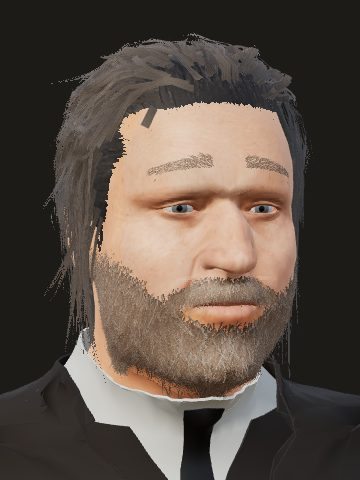
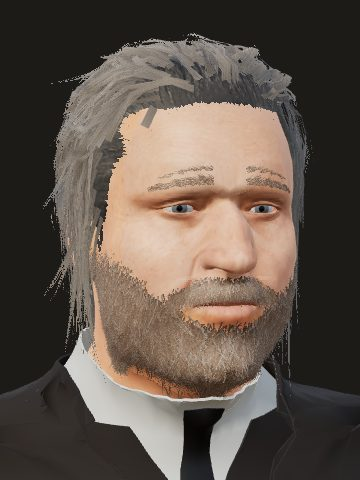
T-3553: The Greys' hair, eyes and William's brows matched to the colour sheets (#1985)
* T-3553: William and Sarah Grey drawn from the owner's stand-in portraits

No photograph of either Grey is known; the owner supplied two sepia
portraits as their 1904 likenesses. Their faces are fitted to about 400
face-landmark points each (MediaPipe), tied to the body's face vertices by
rendering each rest face at five turns (tools/face_landmark_correspondence.py,
data/humans/variation/mediapipe_hm08_landmarks.json). Both are drawn at the
portraits' apparent ages (about 50 and 45; owner's choice), their records
keep the census ages. Build, hair (William's long swept-back hair and full
beard; Sarah's knot turned up to the crown from the lady's own bun), brows
and cloth colours follow the pictures. Cards label each picture "STAND-IN,
NOT" the person; the sources are tier 5, cross_check, and every reading is
graded reconstructed (docs/LIBERTIES.md).

Claude-Session: https://claude.ai/code/session_01YWBQdZGjWaE4FT9A1KPnpp

* T-3553: William's lips and chin clear of his beard, its line up the cheek; Sarah's high cheekbones, fine features, thin lips

Owner, 2026-11-13: his moustache and beard covered his lips and left no
space round his chin, and his beard line did not follow the portrait's;
her cheekbones are higher and her features finer than drawn.

- human-hair.js: a facial piece's region may carry a top line (top:
  [[x, y], ...] cm) its roots stay below, feathered at it.
- The moustache roots between nose and lip and falls to the mouth's
[…]

diff --git a/chicago/4d/renderers/web/js/human-hair-styles.js b/chicago/4d/renderers/web/js/human-hair-styles.js
@@ -234,8 +234,9 @@ export const FACIAL_HAIR = Object.freeze({
   // T-3553: the brows as the Greys' stand-in portraits set them, measured against the eyes on
   // the portrait and on a render of the fitted face by the same landmark model: Sarah's fine
   // brows sit 1.25 cm lower over the eyes than brows_fine draws them on the lady's body, and
-  // William's full brows 0.7 cm lower than brows_full, on the brow bone close over the eyes as his
-  // turnaround sheet shows them (re-measured 2026-11-13 on the faces refitted to the side views).
+  // William's full brows 1.45 cm lower than brows_full, on the brow bone close over the eyes as his
+  // turnaround sheet shows them (re-measured 2026-11-13 on the faces refitted to the side views, and
+  // lowered again when drawn beside the sheet, where they floated a finger's width above the lids).
   brows_fine_low_1904: Object.freeze({
     region_cm: Object.freeze({ x: [1.3, 4.6], y: [.27, .67], z_min: -1.5, droop: .55 }), facing: 'front',
     length_cm: .45, fall: -.1, fall_ends: Object.freeze([-1, .35]), outward: 1, taper: .35, curl: .04, even: .7, exact: true,
@@ -244,7 +245,7 @@ export const FACIAL_HAIR = Object.freeze({
   // His are drawn hair by hair, spaced evenly and lying flatter (`even`, `exact`), so they read
   // as the portrait's soft sandy brows rather than a painted band.
   brows_full_high_1904: Object.freeze({
-    region_cm: Object.freeze({ x: [1.1, 5], y: [.75, 1.5], z_min: -1.8, droop: .6 }), facing: 'front',
+    region_cm: Object.freeze({ x: [1.1, 5], y: [0, .75], z_min: -1.8, droop: .6 }), facing: 'front',
     length_cm: .7, fall: -.05, fall_ends: Object.freeze([-.8, .4]), outward: 1, taper: .3, curl: .08, even: .7, exact: true,
     lift_mm: Object.freeze({ root: .15, tip: .45 }), width_mm: .5, cover: 3.2, spread: .45, jitter_deg: 10,
   }),
@@ -300,6 +301,11 @@ export const HAIR_COLOURS = Object.freeze({
   // the moustache warmest and the chin greyest.
   ash_brown_grey: Object.freeze([.12, .095, .078]),
   grizzled_russet: Object.freeze([.3, .2, .14]),
+  // Matched to the sheets' colour once more (T-3553, owner 2026-11-13: "keep going so they match
+  // perfectly"): drawn beside them, his hair read too dark and hers too dark and warm. His is a
+  // light ash going silver at the sides; hers an ash brown with fair and grey streaks through it.
+  light_ash_grey: Object.freeze([.24, .205, .17]),
+  ash_fair_grey: Object.freeze([.2, .16, .125]),
   // His beard and moustache (T-3553): warmer than his hair, a reddish sand, as the portrait's
   // beard reads a shade redder and lighter than the hair above it.
   sandy_red: Object.freeze([.26, .14, .075]),
@@ -325,8 +331,8 @@ export const PEOPLE_HAIR = Object.freeze({
   // T-3553: William Grey's beard is warmer and greyer than his hair, as the owner's colour turnaround sheet
   // of the stand-in shows; the looks record (tools/prairie_people.py) gives his cut, beard and hair colour.
   pa1904_grey_w_l: Object.freeze({
-    cut: 'swept_back_wavy_1904', facial: Object.freeze([]), colour: 'ash_brown_grey', brow_colour: 'grizzled_russet', grade: 'reconstructed',
-    basis: 'Read from the owner\'s colour turnaround sheet of his stand-in (2026-11-13): hair brown going grey, beard and moustache a grizzled russet. Colours of a stand-in, not a record.',
+    cut: 'swept_back_wavy_1904', facial: Object.freeze([]), colour: 'light_ash_grey', brow_colour: 'grizzled_russet', grade: 'reconstructed',
+    basis: 'Read from the owner\'s colour turnaround sheet of his stand-in (2026-11-13): hair a light ash going silver at the sides, beard and moustache a grizzled russet. Colours of a stand-in, not a record.',
   }),
   glessner_john_j: Object.freeze({
     cut: 'bald_crown_fringe_1904', facial: Object.freeze(['moustache_full', 'brows_full']), colour: 'white_grey', grade: 'attested',
